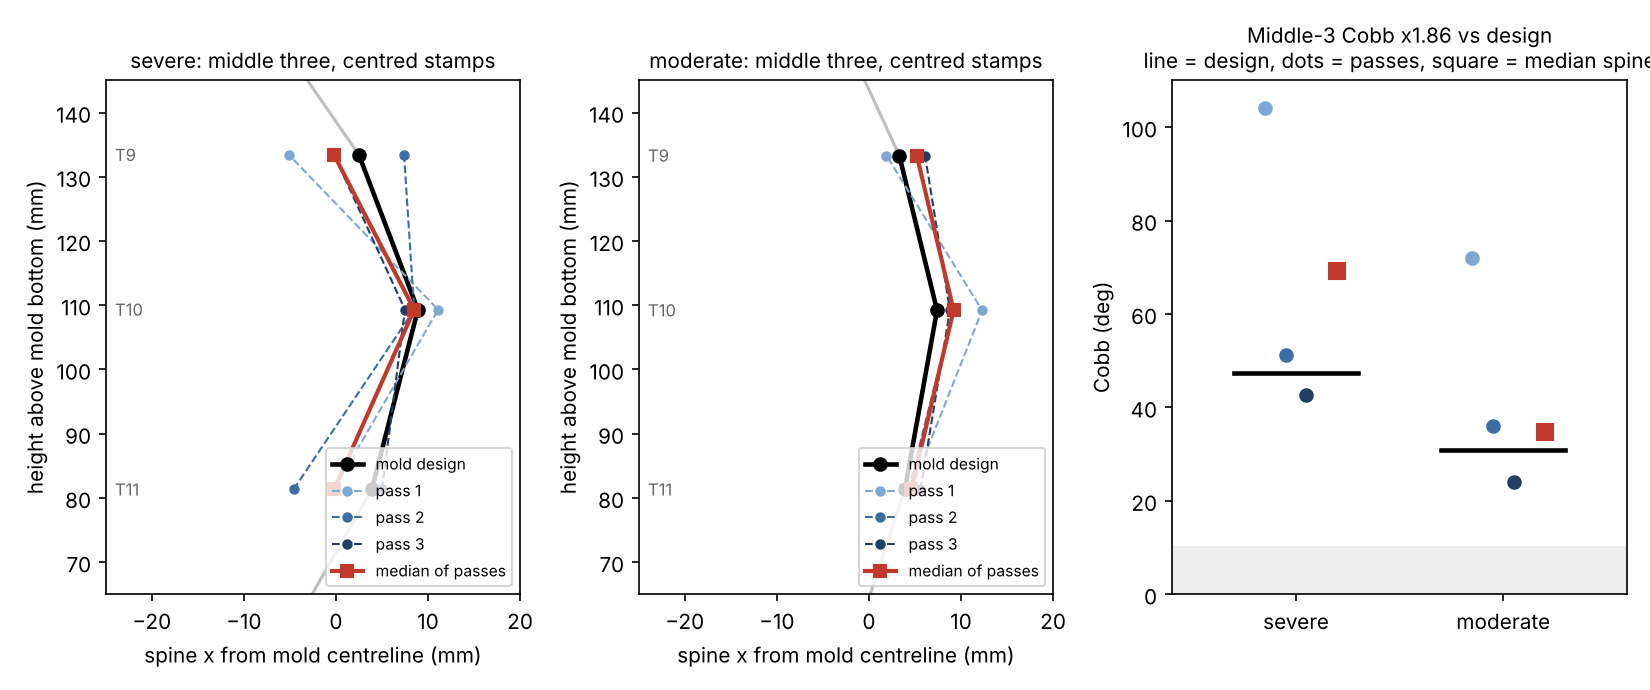
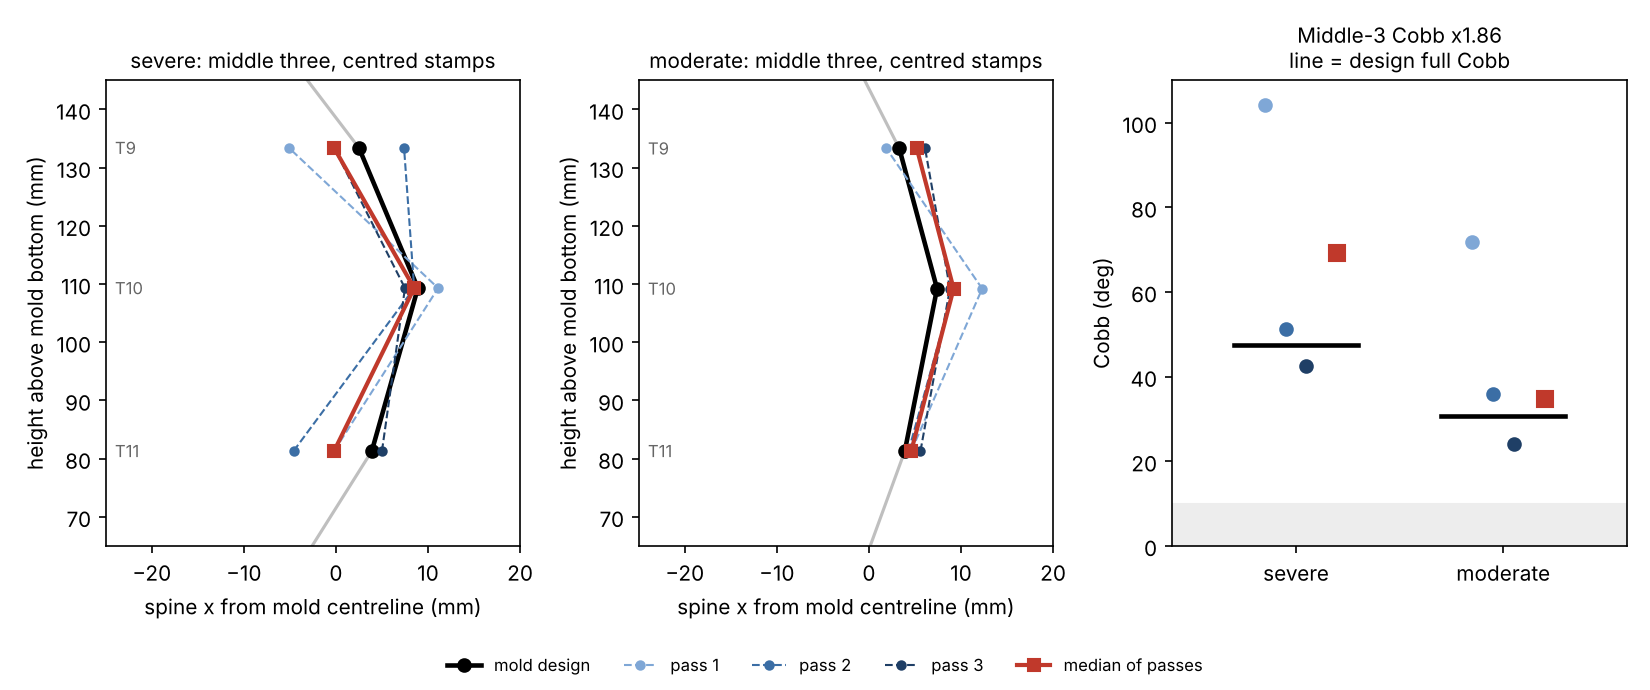
Middle-three readout figure layout
Claude-Session: https://claude.ai/code/session_01RUpA9DHw6u6gxAwv6kfaMd

diff --git a/analysis/severe_2026-11-23/middle_three_readout.py b/analysis/severe_2026-11-23/middle_three_readout.py
@@ -63,7 +63,7 @@ for ax, case in zip(axs[:2], ("severe", "moderate")):
         ax.text(-24, y_, l, va="center", fontsize=8, color="0.4")
     ax.set(xlim=(-25, 20), ylim=(65, 145), xlabel="spine x from mold centreline (mm)",
            ylabel="height above mold bottom (mm)", title=f"{case}: middle three, centred stamps")
-    ax.title.set_fontsize(10); ax.legend(fontsize=7.5, loc="lower right")
+    ax.title.set_fontsize(10)
 ax = axs[2]
 for i, case in enumerate(("severe", "moderate")):
     r = res[res.case == case]
@@ -74,7 +74,9 @@ for i, case in enumerate(("severe", "moderate")):
     ax.plot(i + 0.2, r[r["pass"] == "median"]["scaled Cobb"].iloc[0], "s", color="#c0392b", ms=8)
 ax.axhspan(0, 10, color="0.93", zorder=0)
 ax.set(xticks=[0, 1], xticklabels=["severe", "moderate"], xlim=(-0.6, 1.6), ylim=(0, 110),
-       ylabel="Cobb (deg)", title=f"Middle-3 Cobb x{SCALE:.2f} vs design\nline = design, dots = passes, square = median spine")
+       ylabel="Cobb (deg)", title=f"Middle-3 Cobb x{SCALE:.2f}\nline = design full Cobb")
 ax.title.set_fontsize(10)
-fig.tight_layout(); fig.savefig(OUT / "middle_three_readout.png", dpi=150)
+h, l = axs[0].get_legend_handles_labels()
+fig.legend(h, l, loc="lower center", ncol=5, fontsize=8, frameon=False)
+fig.tight_layout(rect=(0, 0.07, 1, 1)); fig.savefig(OUT / "middle_three_readout.png", dpi=150)
 print(f"-> {OUT}/middle_three_readout.csv, middle_three_readout.png")
